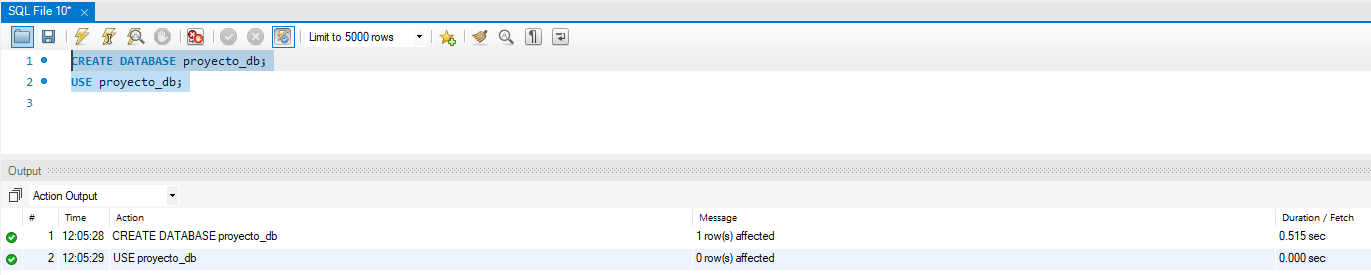
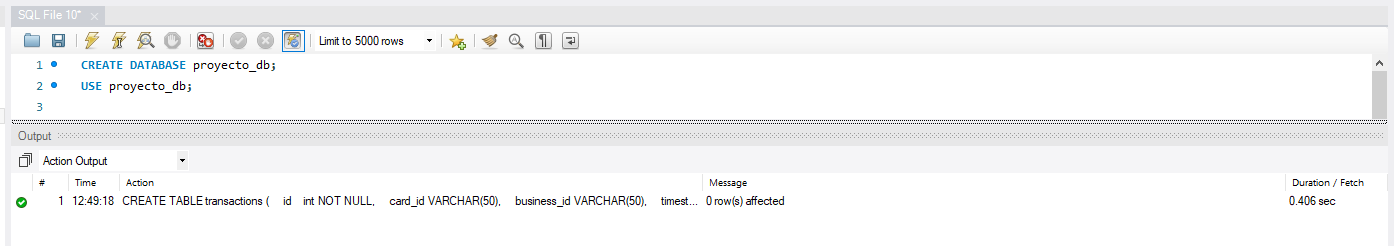
1709_03

diff --git a/sprint4/sprint4.md b/sprint4/sprint4.md
@@ -29,18 +29,20 @@ Tablas Dimensión: usuarios, productos, y tarjetas_credito.
 ```sql
 -- Creacion de la tabla transacciones
 
-CREATE TABLE transacciones (
-    transaction_id INT PRIMARY KEY,
-    user_id INT,
-    product_id INT,
-    card_id INT,
+CREATE TABLE transactions (
+    id    int NOT NULL,
+    card_id VARCHAR(50),
+    business_id VARCHAR(50),
+    timestamp TIMESTAMP,
     amount DECIMAL(10, 2),
-    status VARCHAR(50),
-    date DATE,
-    FOREIGN KEY (user_id) REFERENCES usuarios(user_id),
-    FOREIGN KEY (product_id) REFERENCES productos(product_id),
-    FOREIGN KEY (card_id) REFERENCES tarjetas_credito(card_id)
+    declined BOOLEAN,
+    product_ids TEXT, 
+    user_id INT,
+    lat DECIMAL(15, 10),
+    longitude DECIMAL(15, 10),
+    PRIMARY KEY (id)
 );
+
 
 ```
 
